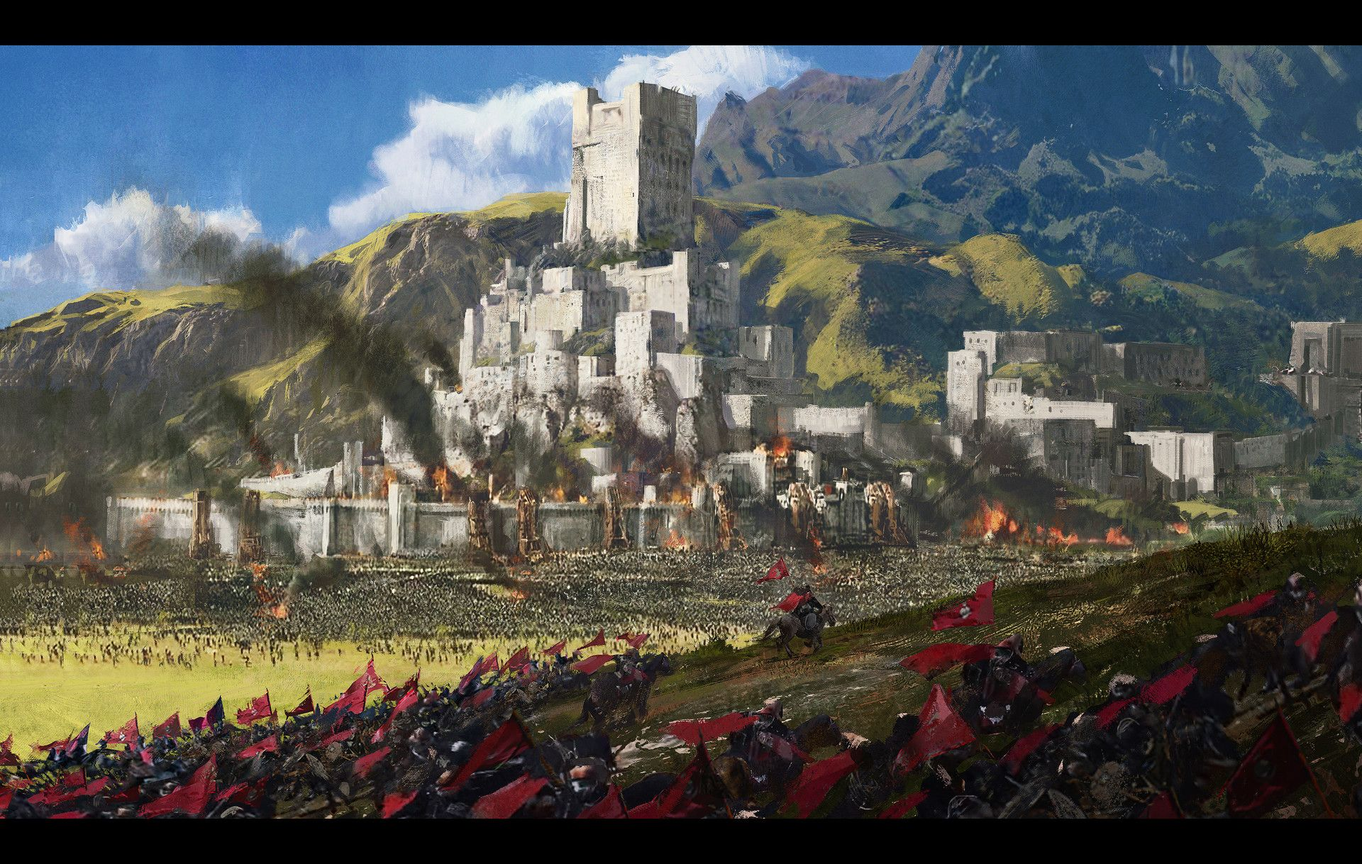
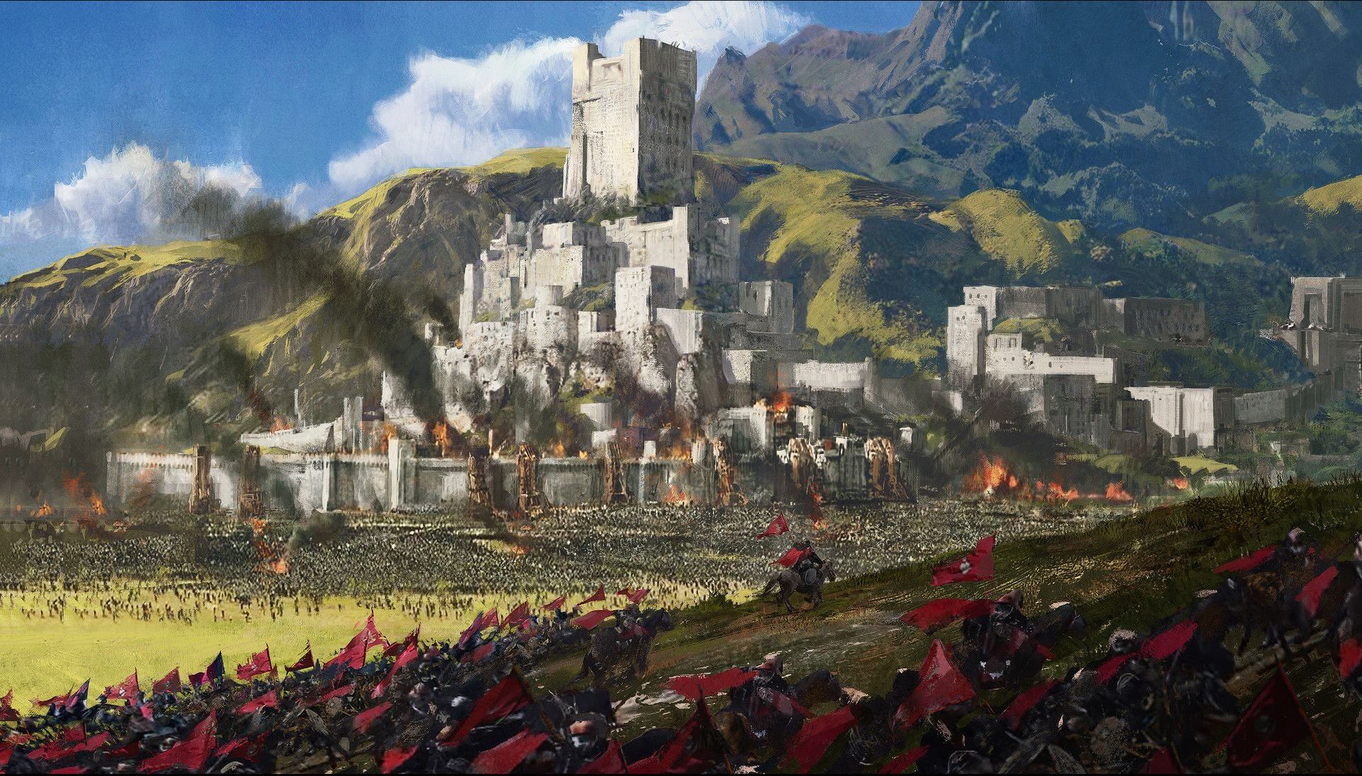
still works

diff --git a/src/main/resources/gwint/DeckBuilder.css b/src/main/resources/gwint/DeckBuilder.css
@@ -75,13 +75,21 @@
     -fx-background-insets : 2.0, 0.0, 0.0;
     -fx-background-radius : 2.0em;
 }
+
+
 .button {
     -fx-text-fill: #D4AF37;
     -fx-border-style: none;
     -fx-background-color: transparent;
 }
 
+.controlButton {
+    -fx-effect: dropshadow(gaussian, #000000, 20, 0.75, 1.0, 0.0);
+}
+
+
 .label {
+    -fx-effect: dropshadow(gaussian, #000000, 20, 0.75, 1.0, 0.0);
     -fx-text-fill: #D4AF37;
     -fx-font-family: 'MedievalSharp';
 }

diff --git a/src/main/resources/gwint/MainMenu.css b/src/main/resources/gwint/MainMenu.css
@@ -8,7 +8,7 @@
     -fx-background-image: url(menubackground.jpg);
     -fx-background-position: center;
     -fx-background-repeat: no-repeat;
-    -fx-background-size: 100%;
+    -fx-background-size: cover;
 }
 
 #mainMenuPane{

diff --git a/src/main/java/gwint/MainMenu.java b/src/main/java/gwint/MainMenu.java
@@ -34,6 +34,10 @@ public class MainMenu implements Initializable {
 
 
     public void handlePlayButtonAction(ActionEvent e){
+        App.switchScene("BaseGame");
+    }
+
+    public void handleDeckButtonAction(ActionEvent e){
         App.switchScene("DeckBuilder");
     }
 
